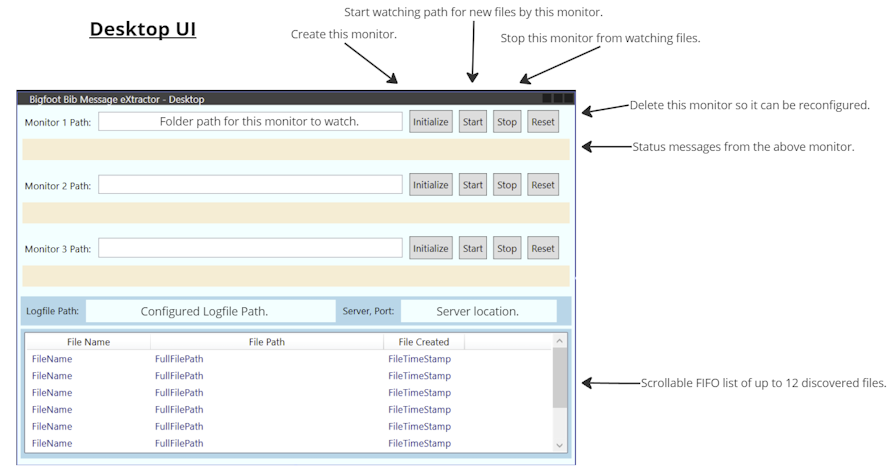
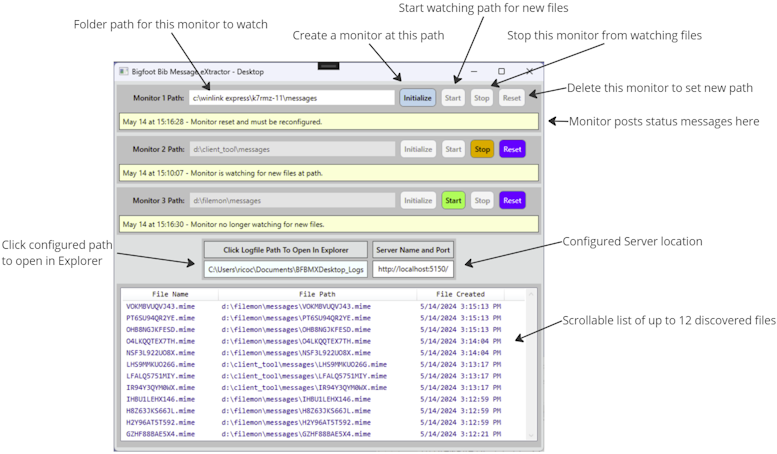
Add, update images and usage instructions.

diff --git a/README.md b/README.md
@@ -15,9 +15,10 @@ Each BFBMX Desktop component discovers Bib Records received via Winlink Express 
 
 ## Project Status
 
-14-May-2024:
+15-May-2024 Feature Update (target version 1.4.3):
 
 - Updated UI with a responsive display, contrasting color scheme, and updated control and content styles.
+- Add updated images and facts to README and instructions.
 
 7-May-2024:
 
@@ -179,7 +180,7 @@ Usage instructions for BF-BMX Desktop App and Server Service.
 
 1. Meet minimum requires as stated in [Target Environment And Dependencies](#target-environment-and-dependencies).
 1. Configure [Local Environment Variables](#configure-local-environment-variables) to set behavior of the Desktop App and Server service.
-1. Download the ClickOnce :tm: [installer](#install-desktop-app) to the Windows computer that is running Winlink Express, and run the installer (link to published files is TBD).
+1. Download the Desktop Zip File from the [Repository Releases Page](https://github.com/nojronatron/BF-BMX/releases) to the Windows computer that is running Winlink Express, and run the [installer](#install-desktop-app).
 1. Copy the [Server Service](#run-the-server-service) zip folder to a location and un-zip it.
 1. Make note of the `log location` presented in the [Server Service console output window](#server-service-overview)
 1. _Leave the console window open_ so the server service continues to run.
@@ -333,7 +334,7 @@ The Server Service is a background service based on fully-fledge web components 
 
 ### Run the Server Service
 
-1. Download the ZIP file (location TBD) and extract the contents to a folder on the Windows computer (for example the `Documents` folder or your `Desktop`).
+1. Download the latest ZIP file from the [Repository Releases Page](https://github.com/nojronatron/BF-BMX/releases) and extract the contents to a folder on the Windows computer (for example the `Documents` folder or your `Desktop`).
 1. Double-click `BFBMX.ServerApi.exe` to launch the server service.
 1. If an alert prompt appears from `Windows Firewall` or `Windows Security` click 'Allow Access' to enable the server to listen for incoming data from the Desktop App(s).
 1. The console window will open and display the server's status and activities.
@@ -349,6 +350,8 @@ The Console Window:
 - The console window can be changed in size to fit your needs without interrupting the server service in any way.
 - Occasional log entries will display the server Hostname, IP Address(es), and HTTP Port.
 - If the Console Window ever "disappears" that means the server service is no longer running and you will want to [restart it](#run-the-server-service).
+
+![Web Server Console Screenshot](./Docs/web-server-console.png)
 
 _Note 1_: When first launched, the Server Service console might display one or more `warn` messages related to 'Microsoft.AspNetCore.Server.Kestrel[0]'. This is transitory and will not impact system operation or data processing.
 
